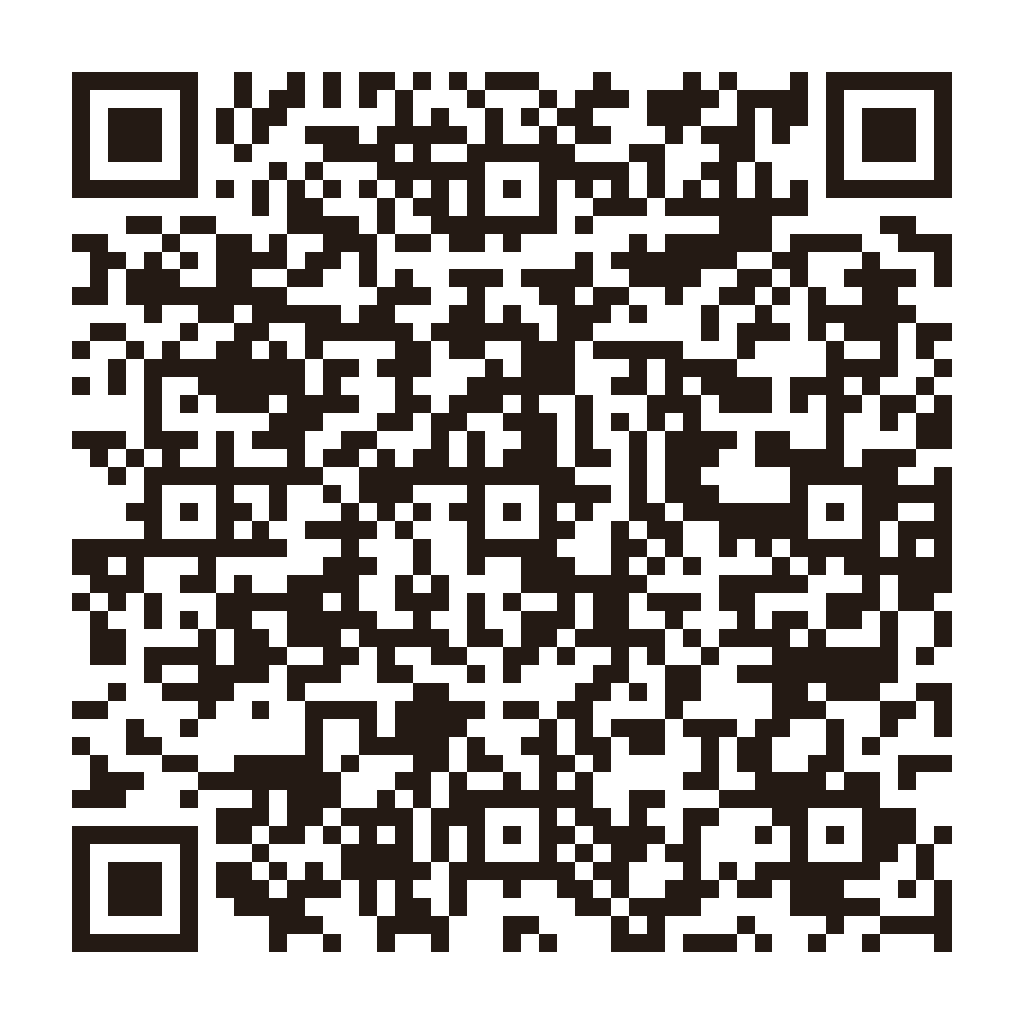
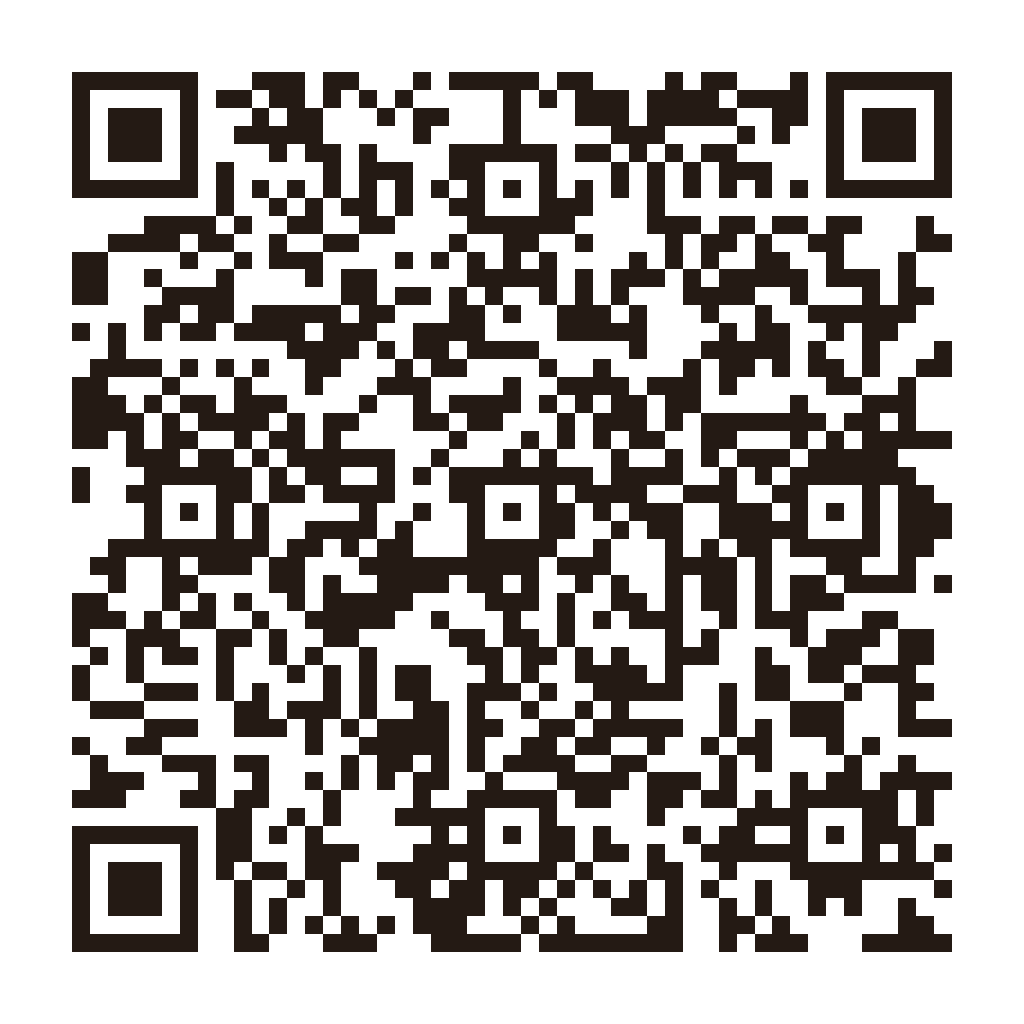
fix: show full Kalamantina cover without cropping and bump QR to v5

diff --git a/assets/css/style.css b/assets/css/style.css
@@ -108,6 +108,8 @@ main {
   overflow: hidden;
 }
 
+.menu-card.is-portrait { grid-template-columns: minmax(240px, 42%) minmax(0, 1fr); }
+
 .menu-card:hover { box-shadow: 0 26px 55px -28px rgba(36, 26, 20, 0.7); }
 
 .card-media {
@@ -128,7 +130,12 @@ main {
   display: block;
 }
 
-.is-portrait .card-media img { object-position: center 12%; }
+.is-portrait .card-media { background: linear-gradient(160deg, var(--paper-deep), #f1e6d6); }
+.is-portrait .card-media img {
+  object-fit: contain;
+  object-position: center;
+  padding: 0.6rem;
+}
 
 .card-index {
   position: absolute;
@@ -232,6 +239,8 @@ main {
     border-bottom: 1px solid var(--line);
   }
   .card-body { min-height: calc(100% - clamp(100px, 22vh, 190px)); padding: clamp(0.8rem, 2.2vh, 1.2rem); }
+  .is-portrait .card-media { height: clamp(190px, 36vh, 300px); }
+  .is-portrait .card-body { min-height: calc(100% - clamp(190px, 36vh, 300px)); }
   .card-body h3 { font-size: clamp(1.4rem, 4vh, 1.9rem); }
   .btn { min-height: 44px; padding-inline: 0.9rem; }
   .qr-block img { width: 64px; height: 64px; }
@@ -240,6 +249,8 @@ main {
 @media (max-height: 620px) {
   .card-media { height: clamp(74px, 18vh, 110px); }
   .card-body { min-height: calc(100% - clamp(74px, 18vh, 110px)); }
+  .is-portrait .card-media { height: clamp(150px, 34vh, 210px); }
+  .is-portrait .card-body { min-height: calc(100% - clamp(150px, 34vh, 210px)); }
   .card-index { font-size: 2.4rem; }
   .qr-block img { width: 54px; height: 54px; }
   .qr-copy span { display: none; }

diff --git a/README.md b/README.md
@@ -10,7 +10,7 @@
 | Dobamina | https://mahmoudazmy2050-ui.github.io/cafe-Resturant/dobamina/ |
 | Kalamantina | https://mahmoudazmy2050-ui.github.io/cafe-Resturant/kalamantina/ |
 
-> رموز QR المطبوعة تشير إلى الرابطين نفسهما مع `?v=4` لتفادي نسخة المتصفح القديمة المحفوظة (Cache-Control: max-age=600). الرابط بدون البارامتر يعمل بشكل طبيعي بعد انتهاء مدة الحفظ.
+> رموز QR المطبوعة تشير إلى الرابطين نفسهما مع `?v=5` لتفادي نسخة المتصفح القديمة المحفوظة (Cache-Control: max-age=600). الرابط بدون البارامتر يعمل بشكل طبيعي بعد انتهاء مدة الحفظ.
 
 ## تفعيل النشر
 
